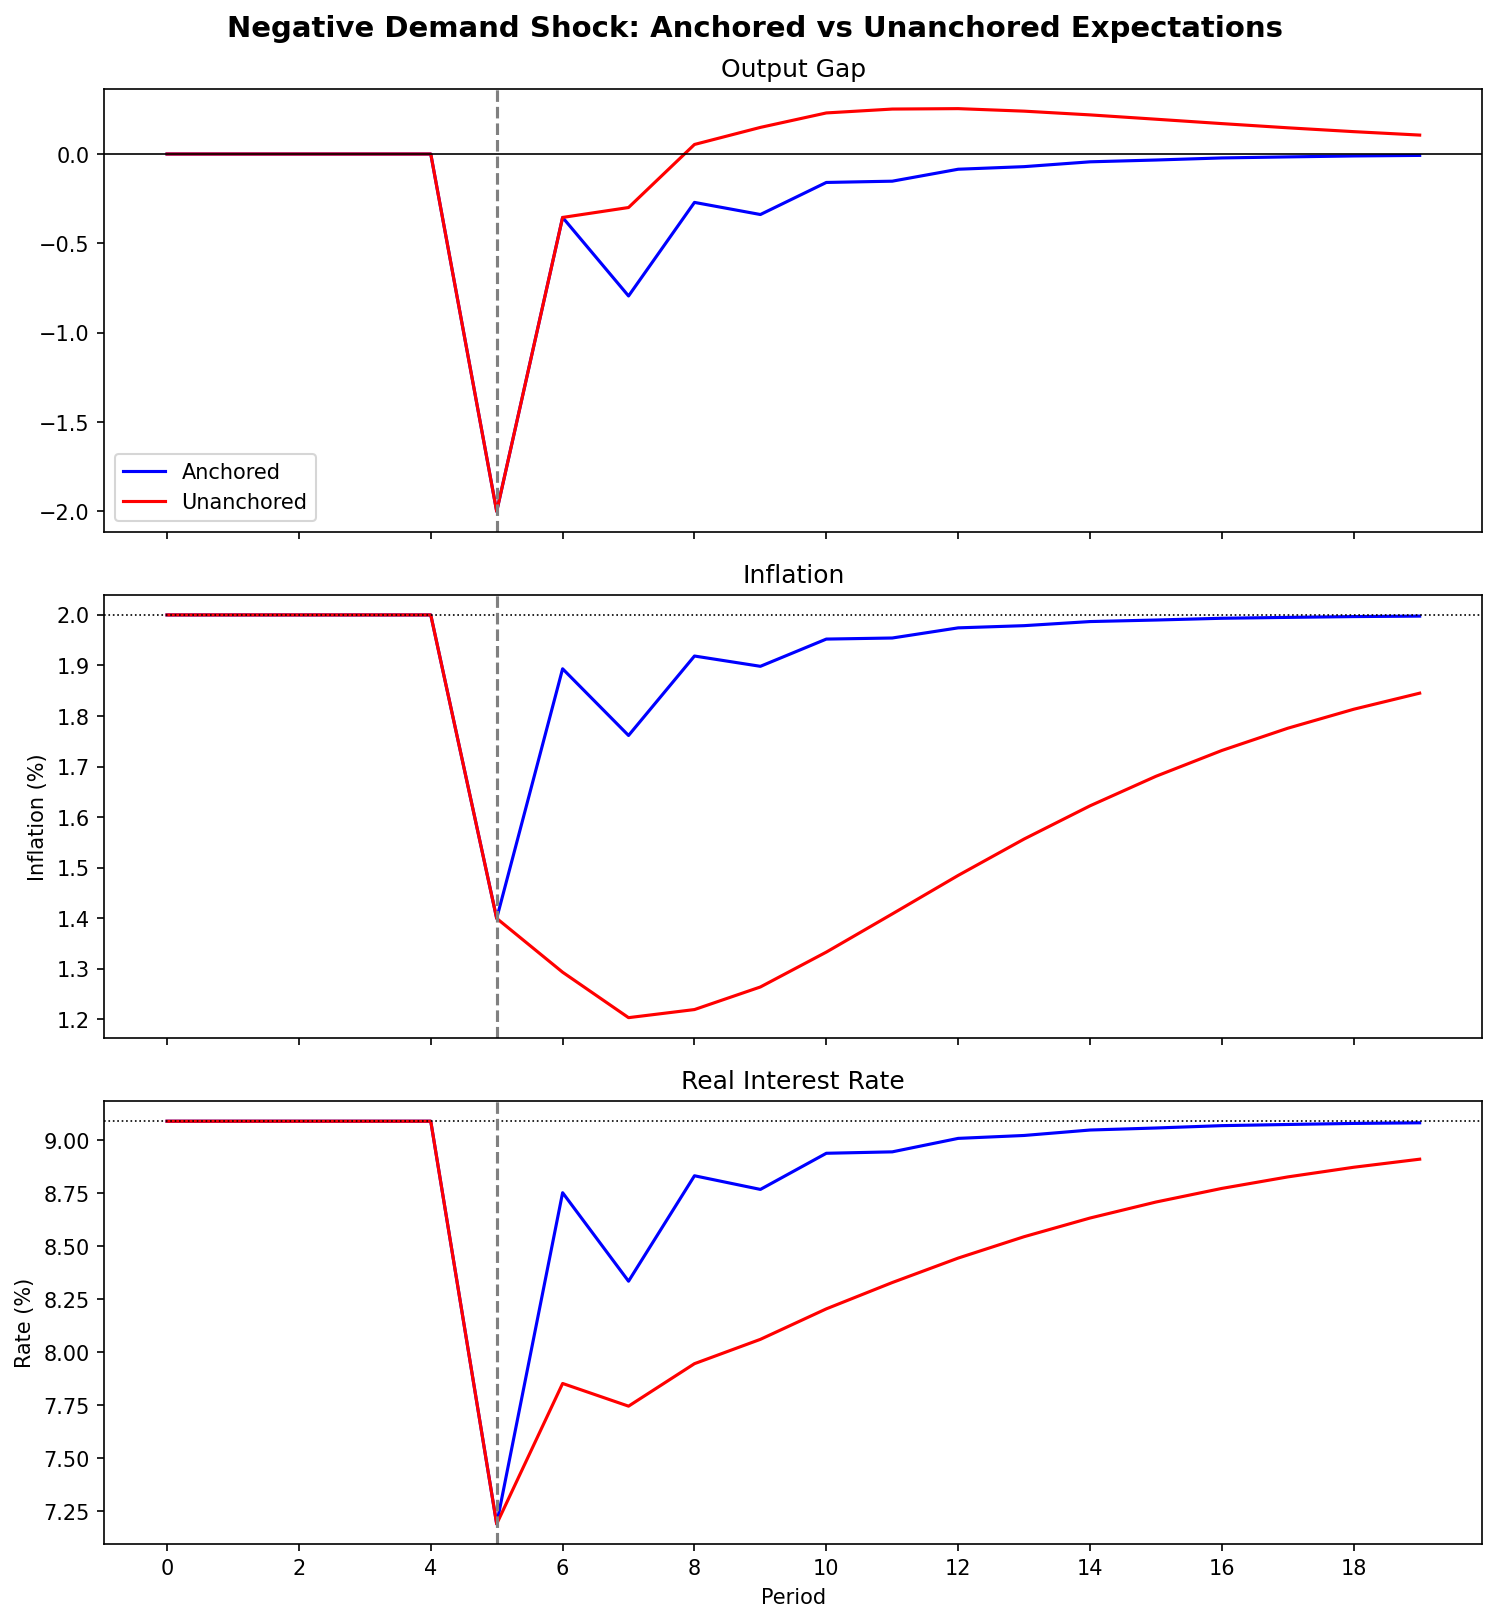
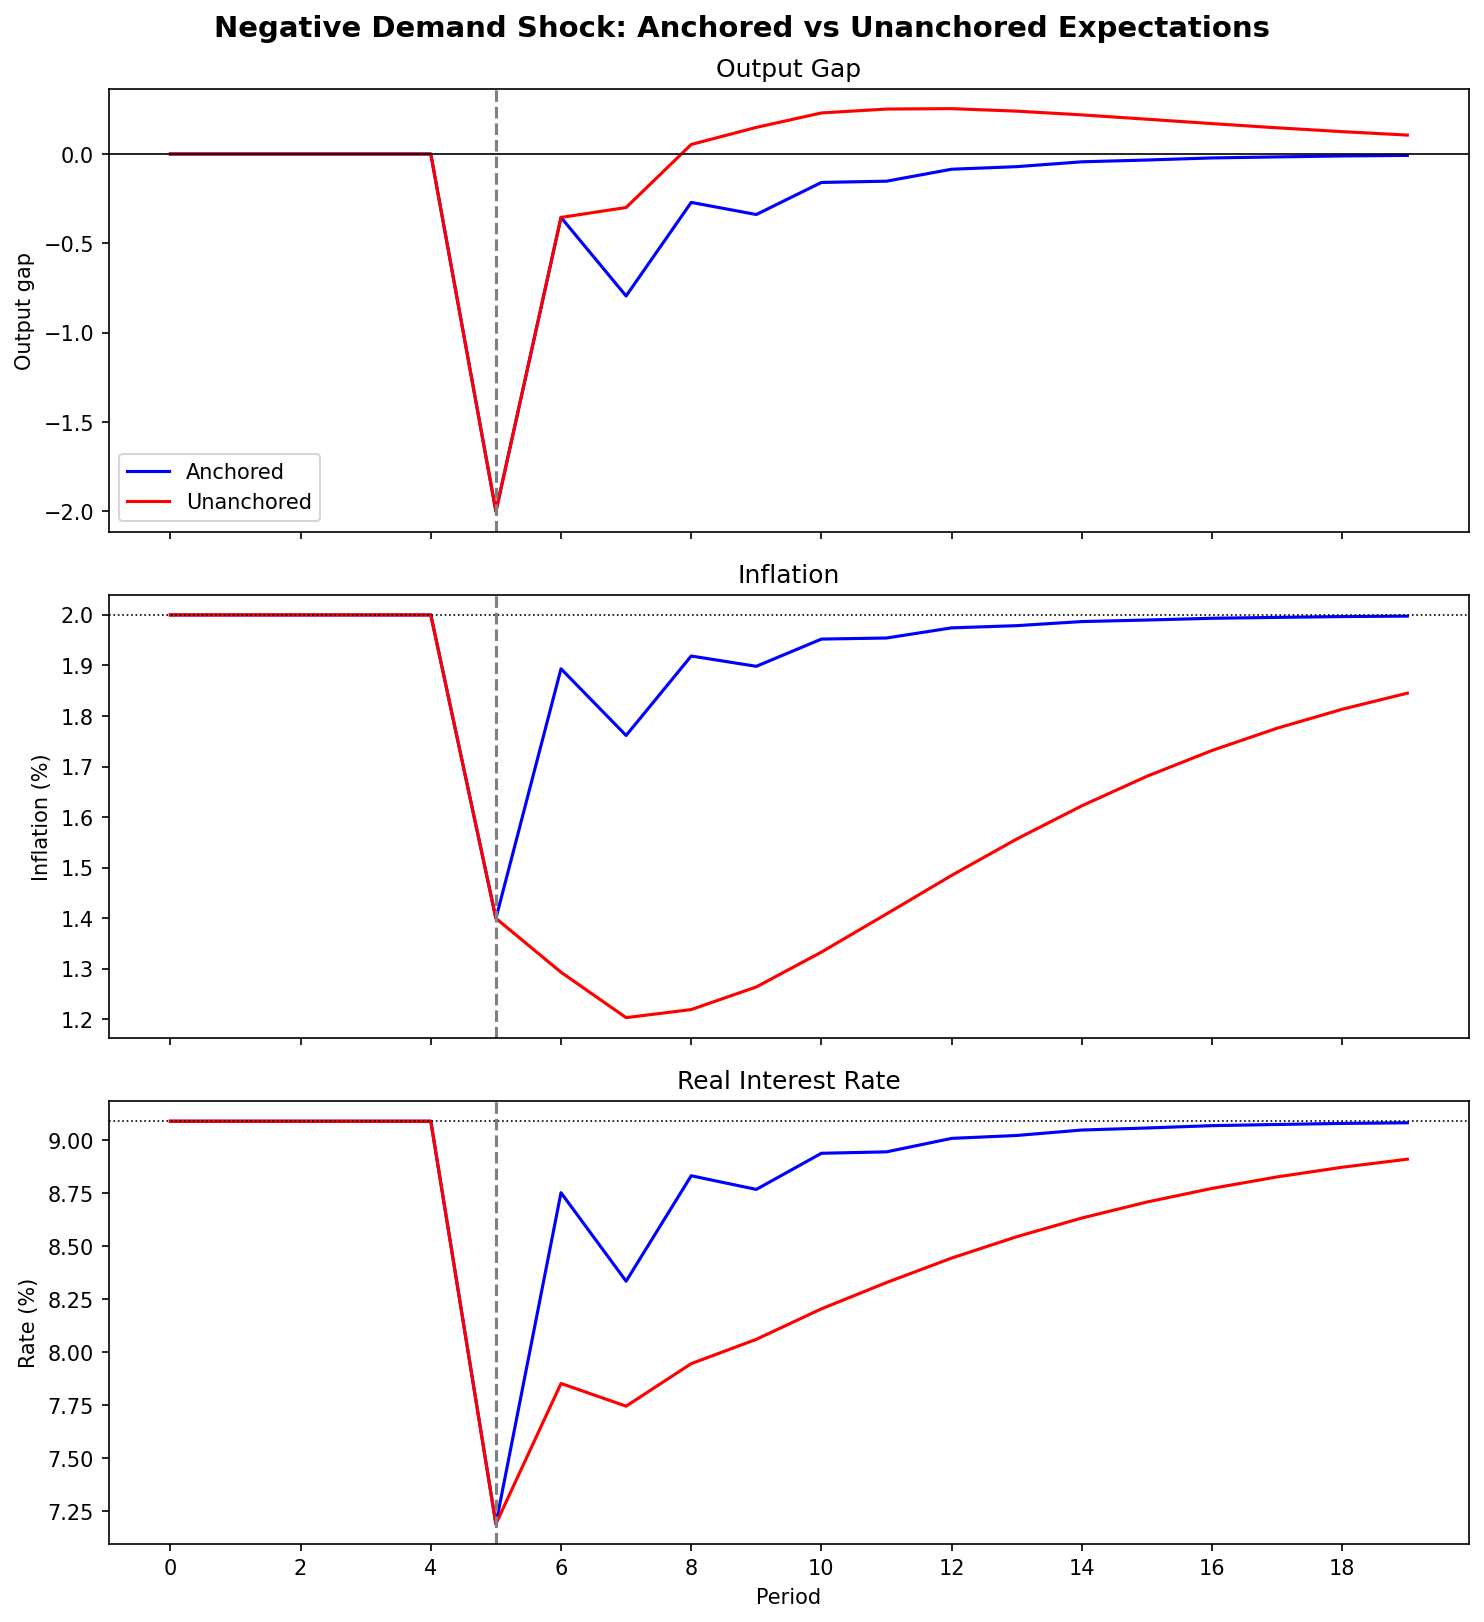
Move parameters into simulate signature, return results as DataFrame, update README

diff --git a/simulation.py b/simulation.py
@@ -1,6 +1,6 @@
-import matplotlib.pyplot as plt
-from functions import simulate, unpack_results, pi_star, shock_period
 import os
+import matplotlib.pyplot as plt
+from functions import simulate, df_results, pi_star, shock_start
 
 
 folder = os.path.dirname(os.path.abspath(__file__))
@@ -9,39 +9,41 @@ folder = os.path.dirname(os.path.abspath(__file__))
 results_anchored = simulate(anchored=True)
 results_unanchored = simulate(anchored=False)
 
-
-y_anchored, pi_anchored, r_anchored = unpack_results(results_anchored)
-y_unanchored, pi_unanchored, r_unanchored = unpack_results(results_unanchored)
+df_anchored = df_results(results_anchored)
+df_unanchored = df_results(results_unanchored)
 
 
 fig, axes = plt.subplots(nrows=3, ncols=1, sharex=True, figsize=(10, 11))
 
 # Panel 1: Output gap
-axes[0].plot(y_anchored, label="Anchored", color="blue")
-axes[0].plot(y_unanchored, label="Unanchored", color="red")
+axes[0].plot(df_anchored['Output'], label="Anchored", color="blue")
+axes[0].plot(df_unanchored['Output'], label="Unanchored", color="red")
 axes[0].axhline(y=0, color="black", linewidth=0.8)
 axes[0].set_title("Output Gap")
+axes[0].set_ylabel("Output gap")
 axes[0].legend()
 
 # Panel 2: Inflation
-axes[1].plot(pi_anchored, label="Anchored", color="blue")
-axes[1].plot(pi_unanchored, label="Unanchored", color="red")
+axes[1].plot(df_anchored['Inflation'], label="Anchored", color="blue")
+axes[1].plot(df_unanchored['Inflation'], label="Unanchored", color="red")
 axes[1].axhline(y=pi_star, color="black", linewidth=0.8, linestyle=":")
 axes[1].set_title("Inflation")
 axes[1].set_ylabel("Inflation (%)")
 
 # Panel 3: Real Interest Rate
-axes[2].plot(r_anchored, label="Anchored", color="blue")
-axes[2].plot(r_unanchored, label="Unanchored", color="red")
-axes[2].axhline(y=r_anchored[0], color="black", linewidth=0.8, linestyle=":")
+axes[2].plot(df_anchored['Real Interest Rate'], label="Anchored", color="blue")
+axes[2].plot(df_unanchored['Real Interest Rate'],
+             label="Unanchored", color="red")
+axes[2].axhline(y=df_unanchored['Real Interest Rate'][0],
+                color="black", linewidth=0.8, linestyle=":")
 axes[2].set_title("Real Interest Rate")
 axes[2].set_ylabel("Rate (%)")
 axes[2].set_xlabel("Period")
-axes[2].set_xticks(range(0, len(y_anchored), 2))
+axes[2].set_xticks(range(0, len(df_unanchored), 2))
 
 # Shock marker on all three
 for ax in axes:
-    ax.axvline(shock_period, color="gray", linestyle="--")
+    ax.axvline(shock_start, color="gray", linestyle="--")
 
 fig.suptitle("Negative Demand Shock: Anchored vs Unanchored Expectations",
              fontsize=14, fontweight="bold")

diff --git a/functions.py b/functions.py
@@ -1,16 +1,23 @@
-pi_star = 2
-shock_period = 5
+import pandas as pd
+
+# Shared with simulation.py: the chart marks the shock period and the target.
+shock_start: int = 5
+pi_star: float = 2
 
 
-def simulate(anchored, periods=20, shock_size=-2):
-    # Parameters
-    a = 0.55
-    alpha = 0.3
-    phi_pi = 1.5
-    phi_y = 0.5
-    y_e = 0
-    A = 5
-    rho = 0.7
+def simulate(
+    anchored: bool,
+    periods: int = 20,
+    shock_size: float = -2,
+    a: float = 0.55,
+    alpha: float = 0.3,
+    phi_pi: float = 1.5,
+    phi_y: float = 0.5,
+    y_e: float = 0,
+    A: float = 5,
+    rho: float = 0.7
+):
+    """Simulate a demand shock under anchored or unanchored expectations."""
 
     # Variables
     r_star = (A - y_e) / a
@@ -22,7 +29,7 @@ def simulate(anchored, periods=20, shock_size=-2):
     results = []
 
     for i in range(periods):
-        if i == shock_period:
+        if i == shock_start:
             shock = shock_size
 
         y = (A + shock) - (a * r_prev)
@@ -42,14 +49,5 @@ def simulate(anchored, periods=20, shock_size=-2):
     return results
 
 
-def unpack_results(results):
-    y_list = []
-    pi_list = []
-    r_list = []
-
-    for y, pi, r in results:
-        y_list.append(y)
-        pi_list.append(pi)
-        r_list.append(r)
-
-    return y_list, pi_list, r_list
+def df_results(results):
+    return pd.DataFrame(results, columns=['Output', 'Inflation', 'Real Interest Rate'])

diff --git a/README.md b/README.md
@@ -127,8 +127,15 @@ it. The problem is not weak demand, so closing the output gap does not fix it.
 python simulation.py
 ```
 
-`functions.py` has the model and a helper that splits the results into separate
-series. `simulation.py` runs both scenarios and draws the chart.
+`functions.py` has the model and a helper that turns the results into a
+DataFrame. `simulation.py` runs both scenarios and draws the chart.
+
+All of the parameters above except `pi_star` are keyword arguments of
+`simulate`, so a scenario can be run without editing the file:
+
+```python
+simulate(anchored=False, rho=0.9)   # a more persistent shock
+```
 
 ## Limitations
 
@@ -136,4 +143,5 @@ series. `simulation.py` runs both scenarios and draws the chart.
 - The shock size is a choice, not a measurement.
 - Backward-looking expectations are a simplification. Real expectations sit
   somewhere between the two cases here.
-- This is not a model of any country. The parameters were picked for stability.
+- This is not a model of any country. The parameters were picked for stability,
+  and a 2% target does not describe Türkiye.
